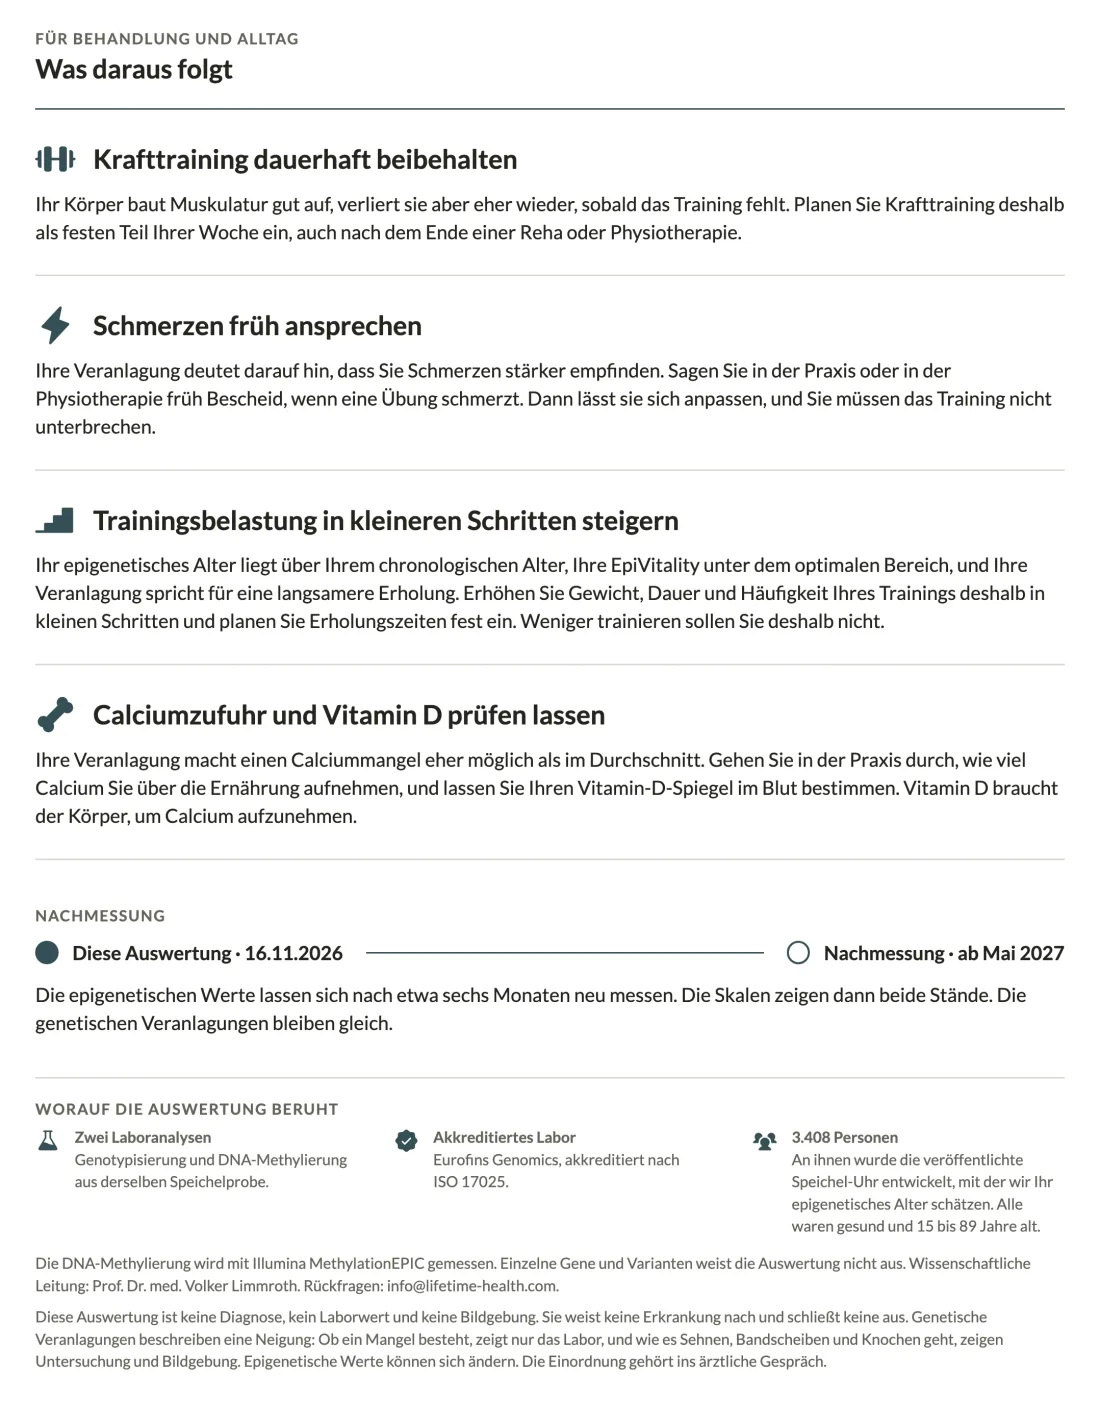
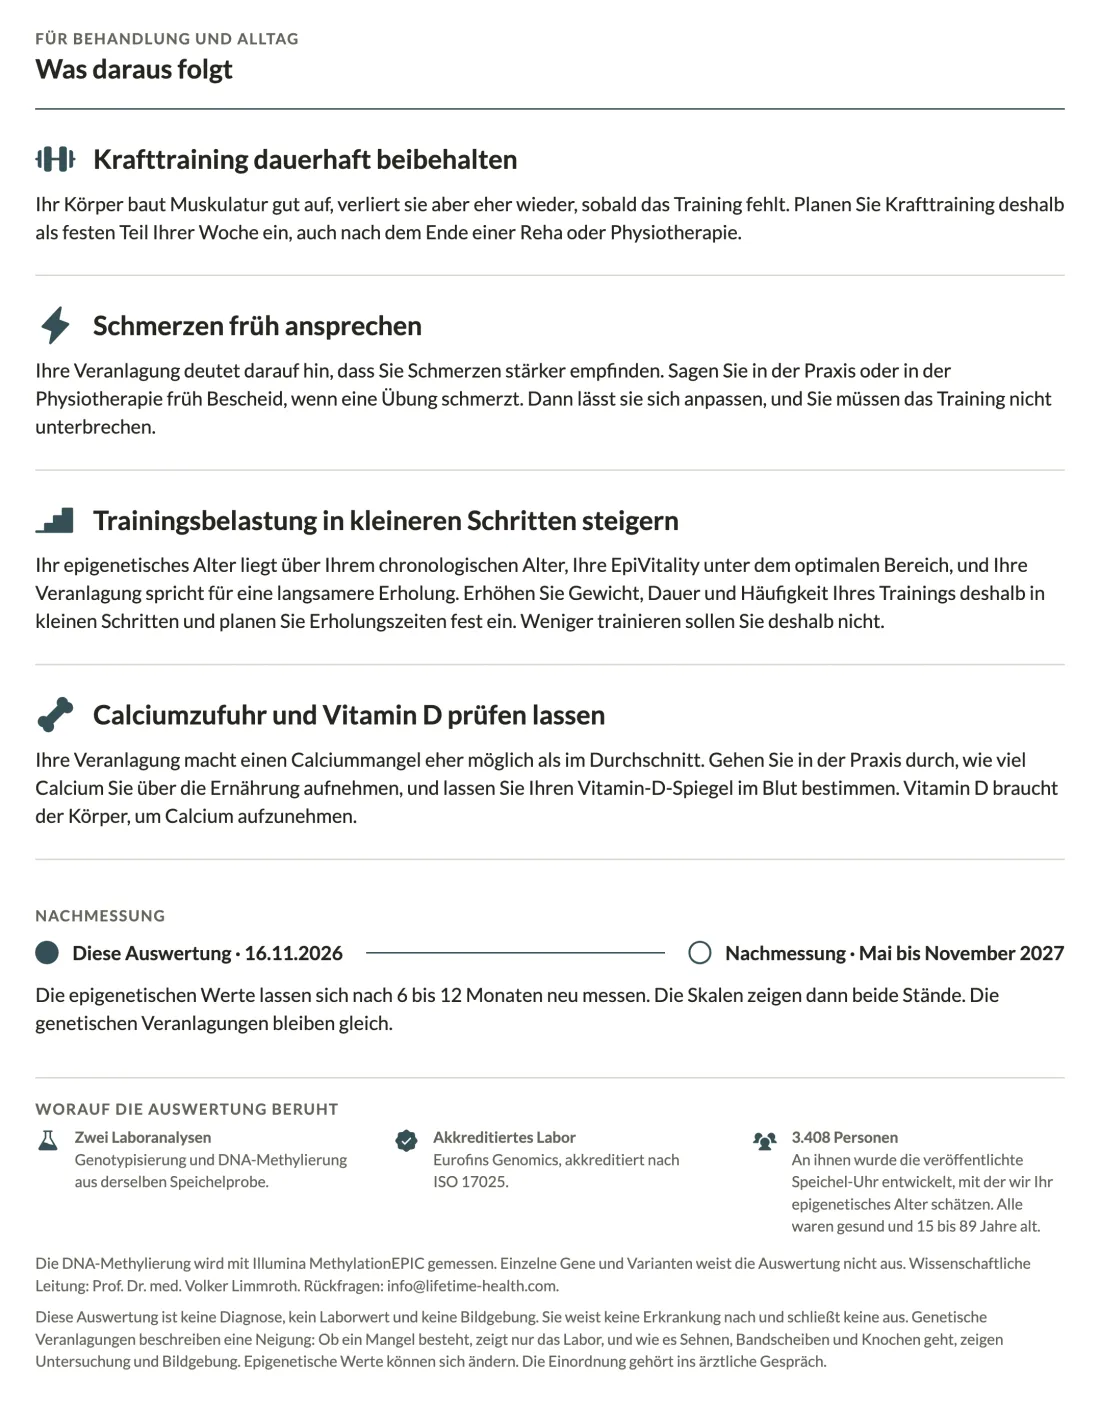
fix(pilotpraxis): Nachmessung „nach 6 bis 12 Monaten“, Folgen-Bild neu, Sperre für „sechs Monate“ (BJ 19.11.2026)

Changed region(s): [[0.3709, 0.6748, 0.9273, 0.7361]]

diff --git a/docs/pilotpraxis/kardiologie.html b/docs/pilotpraxis/kardiologie.html
@@ -140,7 +140,7 @@
       <li><svg class="pp-ic" aria-hidden="true"><use href="#i-dna"/></svg><span><strong>Was der Test liest</strong>genetisch veranlagt und epigenetisch gemessen, aus einer Speichelprobe</span></li>
       <li><svg class="pp-ic" aria-hidden="true"><use href="#i-chart-bar-horizontal"/></svg><span><strong>Je Thema die Werte</strong>mit Skala, Zahl und Einordnung in Worten</span></li>
       <li><svg class="pp-ic" aria-hidden="true"><use href="#i-list-checks"/></svg><span><strong>Was daraus folgt</strong>für Behandlung und Alltag, je Ergebnis ein Schritt</span></li>
-      <li><svg class="pp-ic" aria-hidden="true"><use href="#i-arrows-clockwise"/></svg><span><strong>Nachmessung</strong>nach etwa sechs Monaten, mit derselben Methode</span></li>
+      <li><svg class="pp-ic" aria-hidden="true"><use href="#i-arrows-clockwise"/></svg><span><strong>Nachmessung</strong>nach 6 bis 12 Monaten, mit derselben Methode</span></li>
     </ul>
     <p class="pp-themen-titel">Die vier Themen der Kardiologie</p>
     <ul class="pp-fragen">
@@ -231,7 +231,7 @@
         <li><svg class="pp-ic" aria-hidden="true"><use href="#i-file-text"/></svg><span><strong>Ihre Auswertung für die Praxis</strong>Kardiologie, mit Ihren eigenen Werten</span><em>nur für Pilotpraxen</em></li>
         <li><svg class="pp-ic" aria-hidden="true"><use href="#i-chats-circle"/></svg><span><strong>Kollegengespräch mit Prof. Limmroth</strong><span data-wenn="minuten15">15 Minuten, </span>sobald Ihr Ergebnis da ist</span><em>nicht käuflich</em></li>
         <li><svg class="pp-ic" aria-hidden="true"><use href="#i-envelope-simple"/></svg><span><strong>Muster-Auswertung Kardiologie</strong>sofort per Mail</span><em>sofort</em></li>
-        <li><svg class="pp-ic" aria-hidden="true"><use href="#i-arrows-clockwise"/></svg><span><strong>Nachmessung nach sechs Monaten</strong>Epigenetik, mit derselben Methode</span><em>245 € statt 299 €</em></li>
+        <li><svg class="pp-ic" aria-hidden="true"><use href="#i-arrows-clockwise"/></svg><span><strong>Nachmessung nach 6 bis 12 Monaten</strong>Epigenetik, mit derselben Methode</span><em>245 € statt 299 €</em></li>
       </ul>
 
       <div class="pp-preis" data-zustand="vormerken offen">

diff --git a/docs/pilotpraxis/orthopaedie.html b/docs/pilotpraxis/orthopaedie.html
@@ -140,7 +140,7 @@
       <li><svg class="pp-ic" aria-hidden="true"><use href="#i-dna"/></svg><span><strong>Was der Test liest</strong>genetisch veranlagt und epigenetisch gemessen, aus einer Speichelprobe</span></li>
       <li><svg class="pp-ic" aria-hidden="true"><use href="#i-chart-bar-horizontal"/></svg><span><strong>Je Thema die Werte</strong>mit Skala, Zahl und Einordnung in Worten</span></li>
       <li><svg class="pp-ic" aria-hidden="true"><use href="#i-list-checks"/></svg><span><strong>Was daraus folgt</strong>für Behandlung und Alltag, je Ergebnis ein Schritt</span></li>
-      <li><svg class="pp-ic" aria-hidden="true"><use href="#i-arrows-clockwise"/></svg><span><strong>Nachmessung</strong>nach etwa sechs Monaten, mit derselben Methode</span></li>
+      <li><svg class="pp-ic" aria-hidden="true"><use href="#i-arrows-clockwise"/></svg><span><strong>Nachmessung</strong>nach 6 bis 12 Monaten, mit derselben Methode</span></li>
     </ul>
     <p class="pp-themen-titel">Die vier Themen der Orthopädie</p>
     <ul class="pp-fragen">
@@ -230,7 +230,7 @@
         <li><svg class="pp-ic" aria-hidden="true"><use href="#i-file-text"/></svg><span><strong>Ihre Auswertung für die Praxis</strong>Orthopädie, mit Ihren eigenen Werten</span><em>nur für Pilotpraxen</em></li>
         <li><svg class="pp-ic" aria-hidden="true"><use href="#i-chats-circle"/></svg><span><strong>Kollegengespräch mit Prof. Limmroth</strong><span data-wenn="minuten15">15 Minuten, </span>sobald Ihr Ergebnis da ist</span><em>nicht käuflich</em></li>
         <li><svg class="pp-ic" aria-hidden="true"><use href="#i-envelope-simple"/></svg><span><strong>Muster-Auswertung Orthopädie</strong>sofort per Mail</span><em>sofort</em></li>
-        <li><svg class="pp-ic" aria-hidden="true"><use href="#i-arrows-clockwise"/></svg><span><strong>Nachmessung nach sechs Monaten</strong>Epigenetik, mit derselben Methode</span><em>245 € statt 299 €</em></li>
+        <li><svg class="pp-ic" aria-hidden="true"><use href="#i-arrows-clockwise"/></svg><span><strong>Nachmessung nach 6 bis 12 Monaten</strong>Epigenetik, mit derselben Methode</span><em>245 € statt 299 €</em></li>
       </ul>
 
       <div class="pp-preis" data-zustand="vormerken offen">

diff --git a/docs/pilotpraxis/bauen.py b/docs/pilotpraxis/bauen.py
@@ -33,6 +33,8 @@ GESPERRT = [r'\bBefund', r'Selbstkostenpreis', r'Black\s*Week', r'\bDeal\b', r'\
             r'Rabatt', r'\bSale\b', r'\bNMN\b', r'Lp\(a\)', r'Omega-3', r'\bSalz']
 # Sachlich falsch vor Orthopäden: Das MRT zeigt die Rückenmuskulatur. Richtig: „misst kaum jemand“
 GESPERRT += [r'Muskel[^.]{0,80}zeig(t|en)[^.]{0,30}nicht', r'zeig(t|en) (es|ihn|sie) (den Muskel )?nicht\b']
+# Nachmessung immer „nach 6 bis 12 Monaten“ (BJ 19.11.2026). Das Kundenzitat „In 6 Monaten mache ich den Retest“ bleibt erlaubt
+GESPERRT += [r'(Nachmessung|nachmessen|Nachmessen)[^.<]{0,40}(sechs|6) Monat', r'nach (etwa |rund )?(sechs|6) Monaten']
 # Kein konstruierter Anlass (BJ 18.11.2026): nichts, was voraussetzt, dass Patienten nach dem Test fragen
 GESPERRT += [r'Patient(en|in)? (fragen|fragt) nach', r'danach fragt', r'bevor der erste Patient', r'(mitbringen|mitbringt) würde',
              r'Gentests aus dem Internet', r'zum ersten Mal']
